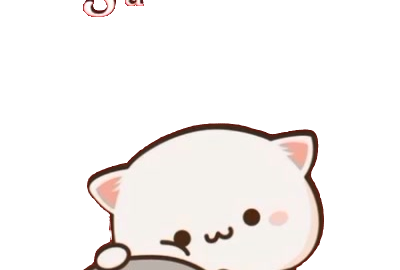
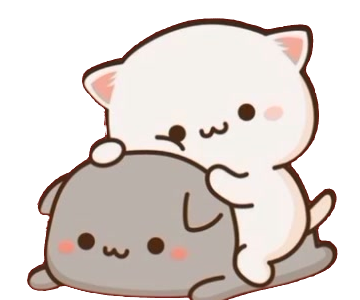
Final polish: fixed cuddle image, gift box, text wrap, auto-play song and wife dedication

diff --git a/website/src/components/screens/GiftOpener.tsx b/website/src/components/screens/GiftOpener.tsx
@@ -1,26 +1,49 @@
-import React from 'react';
+import React, { useState } from 'react';
+import { motion } from 'framer-motion';
 import { useApp } from '../../context';
 import Images from '../../assets/images';
 
 export const GiftOpener: React.FC = () => {
-  const { setScreen } = useApp();
+  const { setScreen, playMusic } = useApp();
+  const [isOpening, setIsOpening] = useState(false);
+
+  const handleOpen = () => {
+    setIsOpening(true);
+    void playMusic();
+    setTimeout(() => {
+      setScreen('teaser');
+    }, 450);
+  };
 
   return (
     <div 
       data-screen="gift"
       className="flex-1 flex flex-col items-center justify-center p-6 text-center select-none cursor-pointer"
-      onClick={() => setScreen('teaser')}
+      onClick={handleOpen}
     >
-      <div className="relative group transition-transform duration-300 hover:scale-105 active:scale-95">
-        <img
-          src={Images.introGiftBox}
-          alt="Birthday Surprise Gift Box"
-          className="w-64 h-64 sm:w-72 sm:h-72 object-contain drop-shadow-[0_20px_30px_rgba(0,0,0,0.5)]"
-        />
+      <div className="mb-6">
+        <p className="font-calligraphic text-3xl sm:text-4xl text-pink-200 drop-shadow-md">
+          A Gift For My Wife
+        </p>
+        <p className="font-serif text-xl sm:text-2xl text-white font-semibold mt-1 tracking-wide">
+          Iman Fatima ♥
+        </p>
       </div>
 
+      <motion.div 
+        animate={isOpening ? { scale: [1, 1.25, 0.9], rotate: [0, -8, 8, 0], opacity: [1, 1, 0.8] } : {}}
+        transition={{ duration: 0.45 }}
+        className="relative group transition-transform duration-300 hover:scale-105 active:scale-95"
+      >
+        <img
+          src={Images.introGiftBox}
+          alt="Birthday Surprise Gift Box for Iman Fatima"
+          className="w-64 h-64 sm:w-72 sm:h-72 object-contain drop-shadow-[0_20px_35px_rgba(0,0,0,0.6)]"
+        />
+      </motion.div>
+
       <p className="mt-8 font-serif text-2xl font-light tracking-wide text-white drop-shadow-md animate-pulse">
-        Click to open it
+        Click to open it 🎁
       </p>
     </div>
   );

diff --git a/website/src/components/screens/SurpriseTeaser.tsx b/website/src/components/screens/SurpriseTeaser.tsx
@@ -30,17 +30,17 @@ export const SurpriseTeaser: React.FC<SurpriseTeaserProps> = ({
       data-screen="teaser"
       className="flex-1 flex flex-col items-center justify-between py-12 px-6 text-center"
     >
-      <div className="w-full mt-4">
-        <h1 className="font-serif text-3xl sm:text-4xl font-normal text-white tracking-wide leading-snug drop-shadow-md">
-          <TypewriterText text="Do you want to see your Surprise" cursor delay={0.15} />
+      <div className="w-full mt-4 px-2">
+        <h1 className="font-serif text-2xl sm:text-3xl font-normal text-white tracking-wide leading-snug drop-shadow-md break-words">
+          <TypewriterText text="Do you want to see your Surprise, Iman Fatima?" cursor delay={0.12} />
         </h1>
       </div>
 
-      <div className="my-auto py-6">
+      <div className="my-auto py-4">
         <img
           src={Images.catsCuddle}
           alt="Peach and Goma cuddle"
-          className="w-56 h-auto max-h-56 object-contain mx-auto drop-shadow-lg transition-transform duration-300 hover:scale-105"
+          className="w-64 h-auto max-h-60 object-contain mx-auto drop-shadow-2xl transition-transform duration-300 hover:scale-105"
         />
       </div>
 

diff --git a/website/src/App.tsx b/website/src/App.tsx
@@ -62,8 +62,11 @@ const ScreenRenderer: React.FC = () => {
 const AppContent: React.FC = () => {
   const { isPlayingMusic, toggleMusic, playMusic } = useApp();
 
-  // Auto-play background song across entire website on first user interaction
+  // Auto-play background song across entire website on page open and first touch
   React.useEffect(() => {
+    // Try to auto-play immediately when page loads
+    void playMusic();
+
     const handleFirstInteraction = () => {
       void playMusic();
     };

diff --git a/website/src/assets/memories/index.ts b/website/src/assets/memories/index.ts
@@ -25,3 +25,4 @@ export const MemoryPhotos = [
 ];
 
 export default MemoryPhotos;
+
